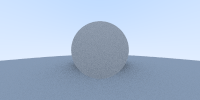
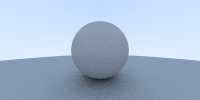
minor fixes and cosmetic changes

Changed region(s): [[0.33, 0.63, 0.66, 1.0]]

diff --git a/src/vector/mod.rs b/src/vector/mod.rs
@@ -1,5 +1,5 @@
 use rand::prelude::*;
-use std::ops::{Add, AddAssign, Div, DivAssign, Mul, MulAssign, Sub, SubAssign};
+use std::ops::{Add, AddAssign, Div, DivAssign, Mul, MulAssign, Neg, Sub, SubAssign};
 
 #[derive(Debug, PartialEq, Clone, Copy)]
 pub struct Vec3 {
@@ -45,21 +45,24 @@ impl Vec3 {
     pub fn dot(&self, other: Vec3) -> f64 {
         self.x * other.x + self.y * other.y + self.z * other.z
     }
+    pub fn cross(&self, other: Vec3) -> Vec3 {
+        Vec3 {
+            x: self.y * other.z - self.z * other.y,
+            y: -self.x * other.z + self.z * other.x,
+            z: self.x * other.y - self.y * other.x,
+        }
+    }
 }
 
 impl Vec3 {
-    pub fn unit_vector(&mut self) {
-        *self /= self.length();
-    }
-    pub fn make_unit_vector(&self) -> Self {
+    pub fn normalized(&self) -> Self {
         *self / self.length()
     }
     pub fn random_in_unit_sphere() -> Vec3 {
-        let mut p = Vec3::new(0., 0., 0.);
         let mut rng = rand::thread_rng();
         loop {
-            p = Vec3::new(rng.gen::<f64>(), rng.gen::<f64>(), rng.gen::<f64>());
-            p = p * 2. - Vec3::new(1., 1., 1.);
+            let p = Vec3::new(rng.gen::<f64>(), rng.gen::<f64>(), rng.gen::<f64>());
+            let p = p * 2. - Vec3::new(1., 1., 1.);
             if p.length_squared() < 1. {
                 break p;
             }
@@ -108,9 +111,9 @@ impl Mul for Vec3 {
 
     fn mul(self, other: Vec3) -> Self {
         Vec3 {
-            x: self.y * other.z - self.z * other.y,
-            y: -self.x * other.z + self.z * other.x,
-            z: self.x * other.y - self.y * other.x,
+            x: self.x * other.x,
+            y: self.y * other.y,
+            z: self.z * other.z,
         }
     }
 }
@@ -124,6 +127,26 @@ impl Div<f64> for Vec3 {
             y: self.y / scalar,
             z: self.z / scalar,
         }
+    }
+}
+
+impl Neg for Vec3 {
+    type Output = Vec3;
+
+    fn neg(self) -> Self {
+        Vec3 {
+            x: -self.x,
+            y: -self.y,
+            z: -self.z,
+        }
+    }
+}
+
+impl Mul<Vec3> for f64 {
+    type Output = Vec3;
+
+    fn mul(self, v: Vec3) -> Vec3 {
+        v * self
     }
 }
 
@@ -153,9 +176,9 @@ impl MulAssign<f64> for Vec3 {
 
 impl MulAssign for Vec3 {
     fn mul_assign(&mut self, other: Vec3) {
-        self.x = self.y * other.z - self.z * other.y;
-        self.y = -self.x * other.z + self.z * other.x;
-        self.z = self.x * other.y - self.y * other.x;
+        self.x *= other.x;
+        self.y *= other.y;
+        self.z *= other.z;
     }
 }
 
@@ -194,21 +217,29 @@ mod tests {
         assert_eq!(v.length(), 5.);
     }
     #[test]
-    fn unit_vector_test() {
-        let mut v = Vec3::new(0., 3., 4.);
-        v.unit_vector();
-        assert_eq!(v, Vec3::new(0., 0.6, 0.8));
-
+    fn normalized_test() {
         let v = Vec3::new(0., 3., 4.);
-        let u = v.make_unit_vector();
+        let u = v.normalized();
         assert_eq!(u, Vec3::new(0., 0.6, 0.8));
         assert_eq!(v, Vec3::new(0., 3., 4.));
     }
     #[test]
+    fn neg_test() {
+        let v = Vec3::new(1., -2., 3.);
+        assert_eq!(-v, Vec3::new(-1., 2., -3.));
+    }
+    #[test]
+    fn scalar_left_mul_test() {
+        let v = Vec3::new(1., 2., 3.);
+        assert_eq!(2.0 * v, Vec3::new(2., 4., 6.));
+        assert_eq!(2.0 * v, v * 2.0);
+    }
+    #[test]
     fn operation_test() {
         let v = Vec3::new(1., 2., 3.);
-        let u = Vec3::new(0., 1., 0.);
-        assert_eq!(v * u, Vec3::new(-3., 0., 1.));
+        let u = Vec3::new(2., 3., 4.);
+        assert_eq!(v * u, Vec3::new(2., 6., 12.));
+        assert_eq!(v.cross(u), Vec3::new(-1., 2., -1.));
     }
     #[test]
     fn dot_test() {

diff --git a/src/ray/mod.rs b/src/ray/mod.rs
@@ -41,14 +41,17 @@ impl Ray {
 }
 
 impl Ray {
-    pub fn color<T: Hit>(&self, world: &T) -> Vec3 {
+    pub fn color<T: Hit>(&self, world: &T, depth: u32) -> Vec3 {
+        if depth >= 50 {
+            return Vec3::new(0., 0., 0.);
+        }
         match world.hit(&self, 0.001, f64::MAX) {
             Some(hit) => {
                 let target = hit.p + hit.normal + Vec3::random_in_unit_sphere();
-                Ray::new(hit.p, target - hit.p).color(world) * 0.5
+                Ray::new(hit.p, target - hit.p).color(world, depth + 1) * 0.5
             }
             None => {
-                let unit_direction = self.direction().make_unit_vector();
+                let unit_direction = self.direction().normalized();
                 let t = 0.5 * (unit_direction.y() + 1.);
                 Vec3::new(1., 1., 1.) * (1.0 - t) + Vec3::new(0.5, 0.7, 1.) * t
             }
@@ -81,12 +84,12 @@ impl Hit for Sphere {
         let discr = b * b - 4. * a * c;
 
         if discr > 0. {
-            let left_root = (-b - (b * b - a * c).sqrt()) / a;
+            let left_root = (-b - discr.sqrt()) / (2. * a);
             let left_branch = self.check_hit_branch(r, tmin, tmax, left_root);
             match left_branch {
                 Some(hr) => Some(hr),
                 None => {
-                    let right_root = (-b + (b * b - a * c).sqrt()) / a;
+                    let right_root = (-b + discr.sqrt()) / (2. * a);
                     self.check_hit_branch(r, tmin, tmax, right_root)
                 }
             }

diff --git a/src/camera/mod.rs b/src/camera/mod.rs
@@ -2,7 +2,7 @@ use crate::ray::Ray;
 use crate::vector::Vec3;
 
 pub struct Camera {
-    lower_lewt_corner: Vec3,
+    lower_left_corner: Vec3,
     horizontal: Vec3,
     vertical: Vec3,
     origin: Vec3,
@@ -11,7 +11,7 @@ pub struct Camera {
 impl Camera {
     pub fn new() -> Self {
         Camera {
-            lower_lewt_corner: Vec3::new(-2., -1., -1.),
+            lower_left_corner: Vec3::new(-2., -1., -1.),
             horizontal: Vec3::new(4., -0., -0.),
             vertical: Vec3::new(0., 2., 0.),
             origin: Vec3::new(0., 0., 0.),
@@ -20,7 +20,7 @@ impl Camera {
     pub fn get_ray(&self, u: f64, v: f64) -> Ray {
         Ray::new(
             self.origin,
-            self.lower_lewt_corner + self.horizontal * u + self.vertical * v - self.origin,
+            self.lower_left_corner + self.horizontal * u + self.vertical * v - self.origin,
         )
     }
 }

diff --git a/src/main.rs b/src/main.rs
@@ -35,7 +35,7 @@ fn main() {
                 let u = (i as f64 + rng.gen::<f64>()) / nx as f64;
                 let v = (j as f64 + rng.gen::<f64>()) / ny as f64;
                 let r = camera.get_ray(u, v);
-                color += r.color(&world);
+                color += r.color(&world, 0);
             }
             color /= ns as f64;
             color = Vec3::new(color.x().sqrt(), color.y().sqrt(), color.z().sqrt());